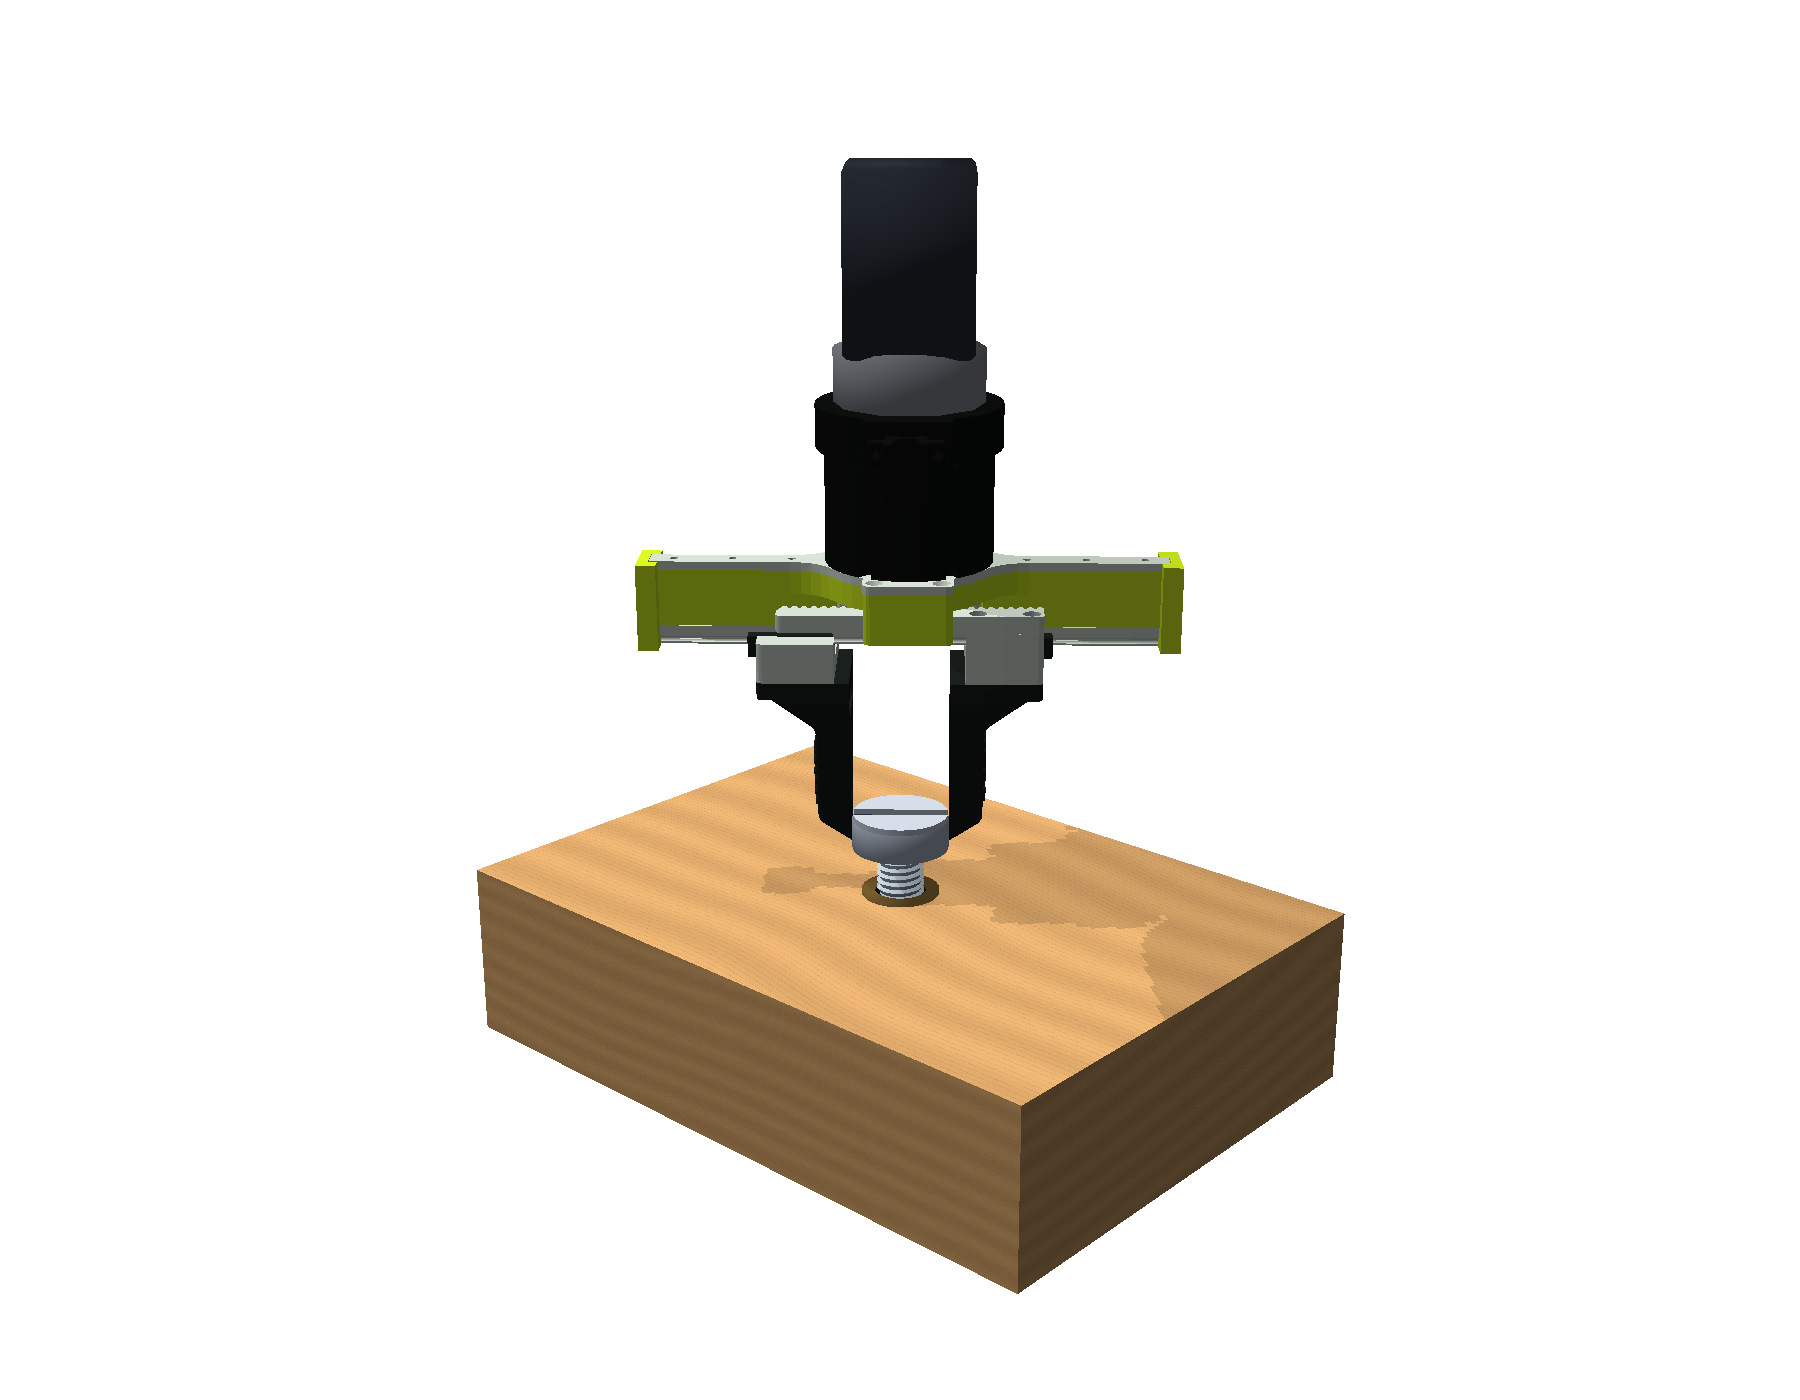
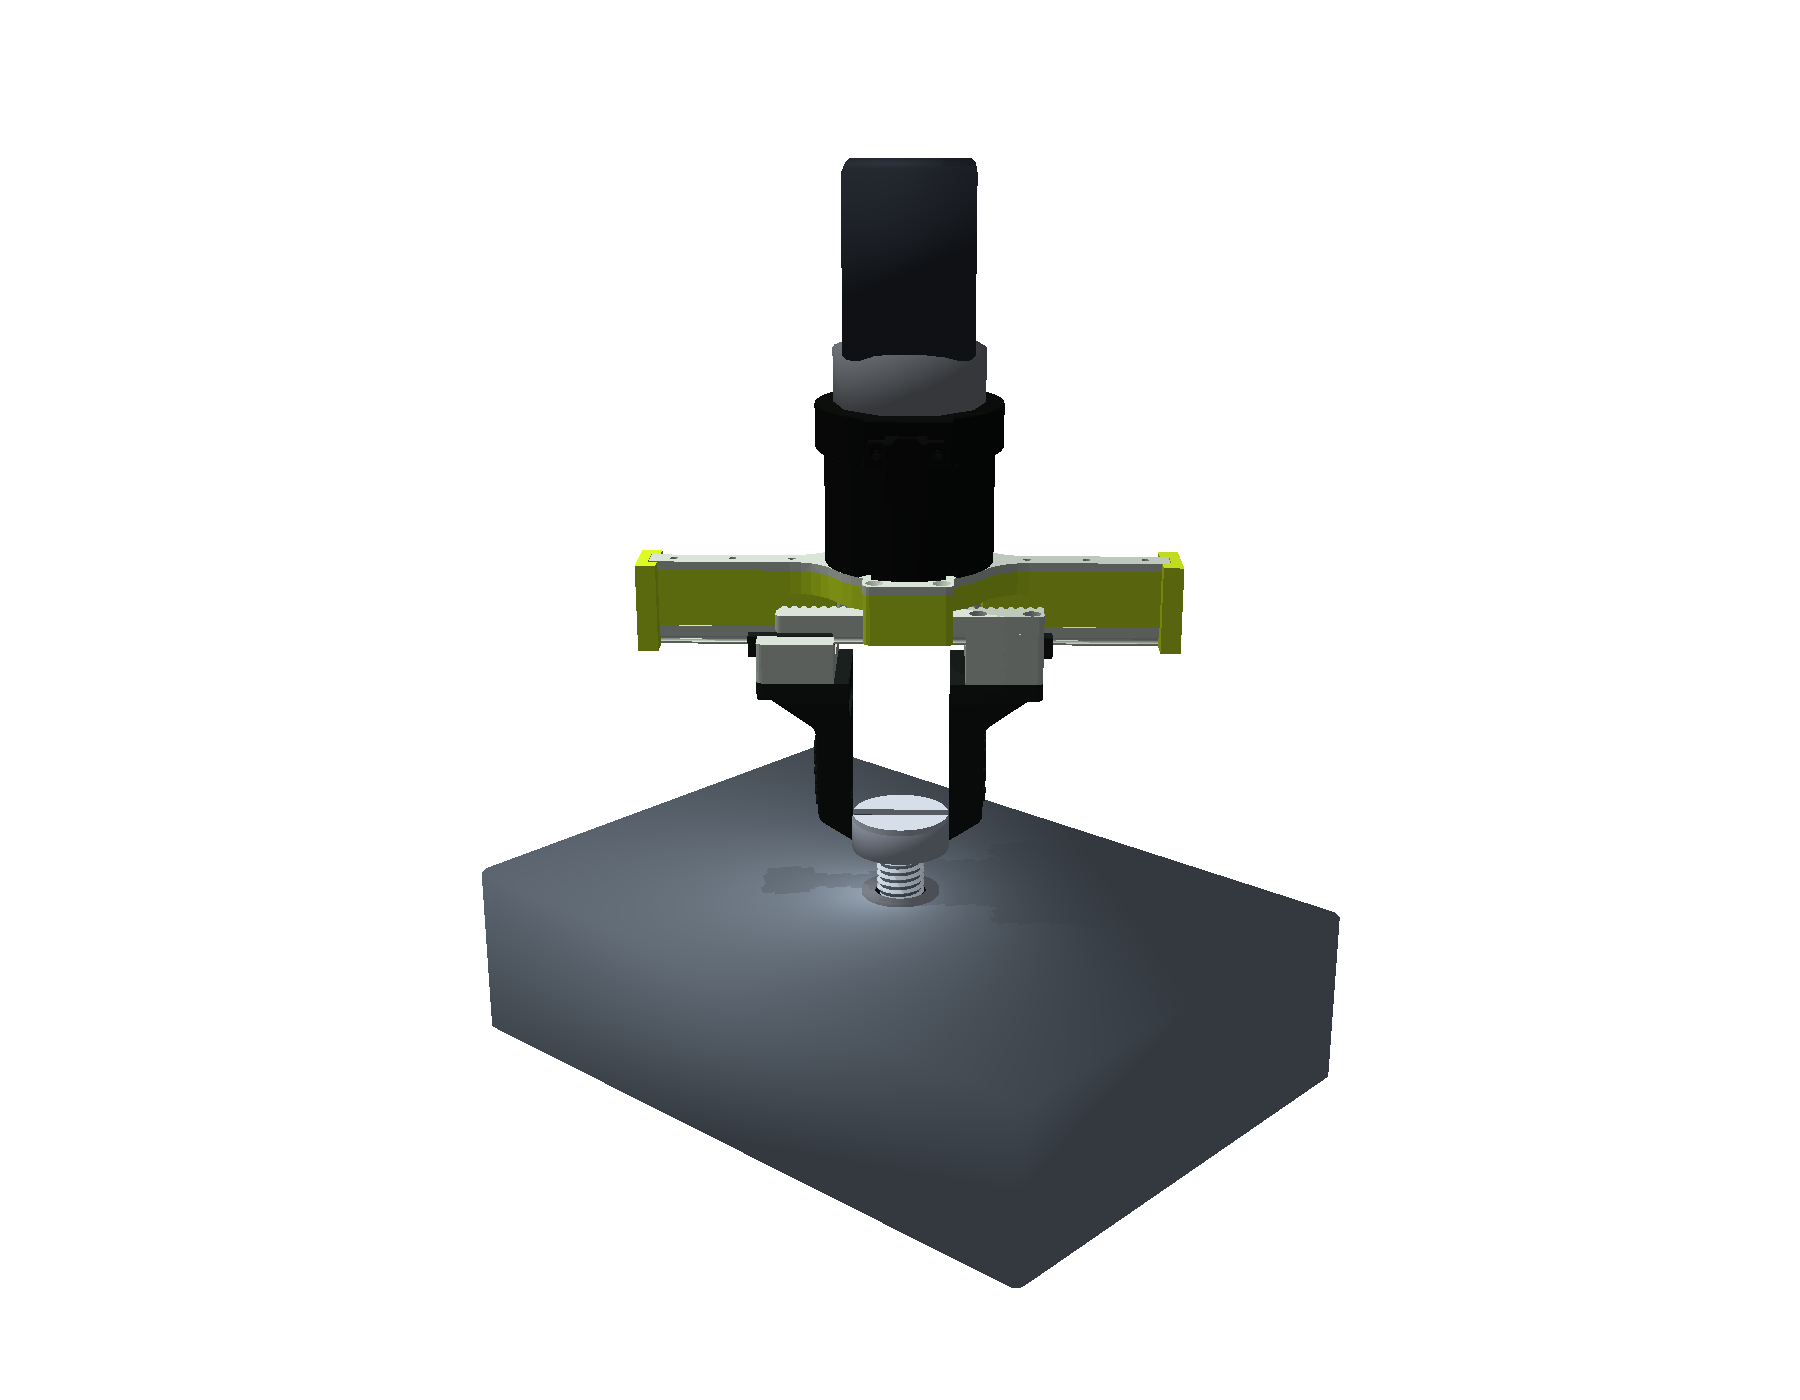
Restore SCREW metal fixture for the modeled metric thread

Changed region(s): [[0.2489, 0.5221, 0.7467, 0.9214]]

diff --git a/scripts/render_screw_workspace_b601.py b/scripts/render_screw_workspace_b601.py
@@ -5,61 +5,10 @@ from pathlib import Path
 
 import numpy as np
 import pybullet as p
-from b601_render_common import make_box, make_cyl
+from b601_render_common import make_box
 from workspace_environment import prepare_environment, body_geometry
 from workspace_render_cli import DEFAULT_OUTPUT_DIR, DEFAULT_PROVENANCE, run_renderer
 from workspace_wrench import force, metadata, torque
-
-
-def wooden_fixture(cid, top_z):
-    """Fixed wood blank with deterministic procedural grain and a flush insert."""
-    from PIL import Image
-    import tempfile
-
-    size = 512
-    yy, xx = np.mgrid[0:1:complex(size), 0:1:complex(size)]
-    rng = np.random.default_rng(1701)
-    atlas = np.empty((2 * size, 3 * size, 3), dtype=np.uint8)
-    for face in range(6):
-        if face in (2, 3):  # End grain across the cut ends.
-            coordinate = np.sqrt((yy + 0.6)**2 + (0.6 * xx + 0.2)**2)
-        else:
-            coordinate = yy + 0.035*np.sin(5*xx + face) + 0.011*np.sin(13*xx+2*yy)
-        growth = np.sin(2*np.pi*(7*coordinate + 0.10*np.sin(9*coordinate)))
-        fibers = np.maximum(0, np.cos(2*np.pi*77*coordinate))**12
-        variation = 7*growth - 16*fibers + rng.normal(0, 1.1, xx.shape)
-        base = np.array([195, 151, 98]) * (0.91 if face in (2, 3) else 1)
-        tile = np.clip(base + variation[..., None]*[1, .85, .6], 0, 255).astype(np.uint8)
-        row, col = divmod(face, 3)
-        atlas[row*size:(row+1)*size, col*size:(col+1)*size] = tile
-
-    hx, hy, hz = .060, .042, (top_z + .016)/2
-    # Four vertices per face retain flat shading and independent grain UVs.
-    faces = [
-        ([[-hx,-hy,hz],[hx,-hy,hz],[hx,hy,hz],[-hx,hy,hz]], [0,0,1]),
-        ([[-hx,hy,-hz],[hx,hy,-hz],[hx,-hy,-hz],[-hx,-hy,-hz]], [0,0,-1]),
-        ([[hx,-hy,-hz],[hx,hy,-hz],[hx,hy,hz],[hx,-hy,hz]], [1,0,0]),
-        ([[-hx,hy,-hz],[-hx,-hy,-hz],[-hx,-hy,hz],[-hx,hy,hz]], [-1,0,0]),
-        ([[-hx,-hy,-hz],[hx,-hy,-hz],[hx,-hy,hz],[-hx,-hy,hz]], [0,-1,0]),
-        ([[hx,hy,-hz],[-hx,hy,-hz],[-hx,hy,hz],[hx,hy,hz]], [0,1,0]),
-    ]
-    vertices, indices, normals, uvs = [], [], [], []
-    for face, (corners, normal) in enumerate(faces):
-        first = len(vertices); vertices.extend(corners); normals.extend([normal]*4)
-        indices.extend([first, first+1, first+2, first, first+2, first+3])
-        row, col = divmod(face, 3)
-        u0, u1 = (col+.003)/3, (col+.997)/3
-        v0, v1 = 1-(row+.997)/2, 1-(row+.003)/2
-        uvs.extend([[u0,v0],[u1,v0],[u1,v1],[u0,v1]])
-    visual = p.createVisualShape(p.GEOM_MESH, vertices=vertices, indices=indices,
-        normals=normals, uvs=uvs, rgbaColor=[1,1,1,1], specularColor=[.05]*3, physicsClientId=cid)
-    body = p.createMultiBody(0,-1,visual,[0,0,(top_z-.016)/2],physicsClientId=cid)
-    with tempfile.TemporaryDirectory(prefix='trix-wood-') as directory:
-        texture_path = Path(directory)/'grain.png'
-        Image.fromarray(atlas).save(texture_path)
-        texture = p.loadTexture(str(texture_path),physicsClientId=cid)
-    p.changeVisualShape(body,-1,textureUniqueId=texture,physicsClientId=cid)
-    return body
 
 
 def render(*, output_dir=DEFAULT_OUTPUT_DIR, provenance_path=DEFAULT_PROVENANCE, environment=None, debug=False):
@@ -83,10 +32,16 @@ def render(*, output_dir=DEFAULT_OUTPUT_DIR, provenance_path=DEFAULT_PROVENANCE,
     head_z = fixture_top + lift + 0.003
     cid = p.connect(p.DIRECT)
     try:
-        fixture = wooden_fixture(cid, fixture_top)
-        # A flush M8 threaded insert preserves the modeled 1.25 mm thread.
-        annulus(cid, crest_radius+.0003, .0065, .0006, [0,0,fixture_top+.0003], [.65,.51,.26,1])
-        annulus(cid, 0, crest_radius+.0003, .00005, [0,0,fixture_top+.00006], [.11,.09,.065,1])
+        # Fixed metal fixture for the modeled metric machine thread.
+        fixture = rounded_box(
+            cid, [.060, .042, .015], [0, 0, fixture_top - .015],
+            [.46, .51, .57, 1], radius=.002, bevel=.0006,
+        )
+        # Machined bore mouth; the visible screw helix uses the model pitch.
+        annulus(cid, crest_radius+.0003, .0065, .0006,
+                [0, 0, fixture_top+.0003], [.68, .72, .77, 1])
+        annulus(cid, 0, crest_radius+.0003, .00005,
+                [0, 0, fixture_top+.00006], [.08, .10, .13, 1])
 
         # A continuous 1.25 mm helical ridge around the screw's root.
         bottom, top = head_z - 0.029, head_z - 0.003
@@ -188,16 +143,16 @@ def render(*, output_dir=DEFAULT_OUTPUT_DIR, provenance_path=DEFAULT_PROVENANCE,
                 camera=camera,
                 grasp=grasp,
                 **metadata(wrenches),
-                fixture_material="wood blank with flush M8 threaded insert",
+                fixture_material="machined metal block with M8 tapped bore",
                 fixture_dimensions_m=[.120,.084,.030],
-                wood_grain_source="deterministic procedural texture in renderer",
+                thread_capacity_N=model.F_THREAD_CAPACITY,
                 thread_pitch_m=pitch,
                 thread_core_geometry="explicit radius mesh",
                 head_diameter_m=0.016,
                 contact_radial_error_m=[r - 0.008 for r in contact_radii],
                 thread_root_radius_m=root_radius,
                 thread_crest_radius_m=crest_radius,
-                head_bottom_above_insert_m=lift,
+                head_bottom_above_fixture_m=lift,
                 fixture_top_m=fixture_top,
                 theta_rad=theta,
                 lift_m=lift,
